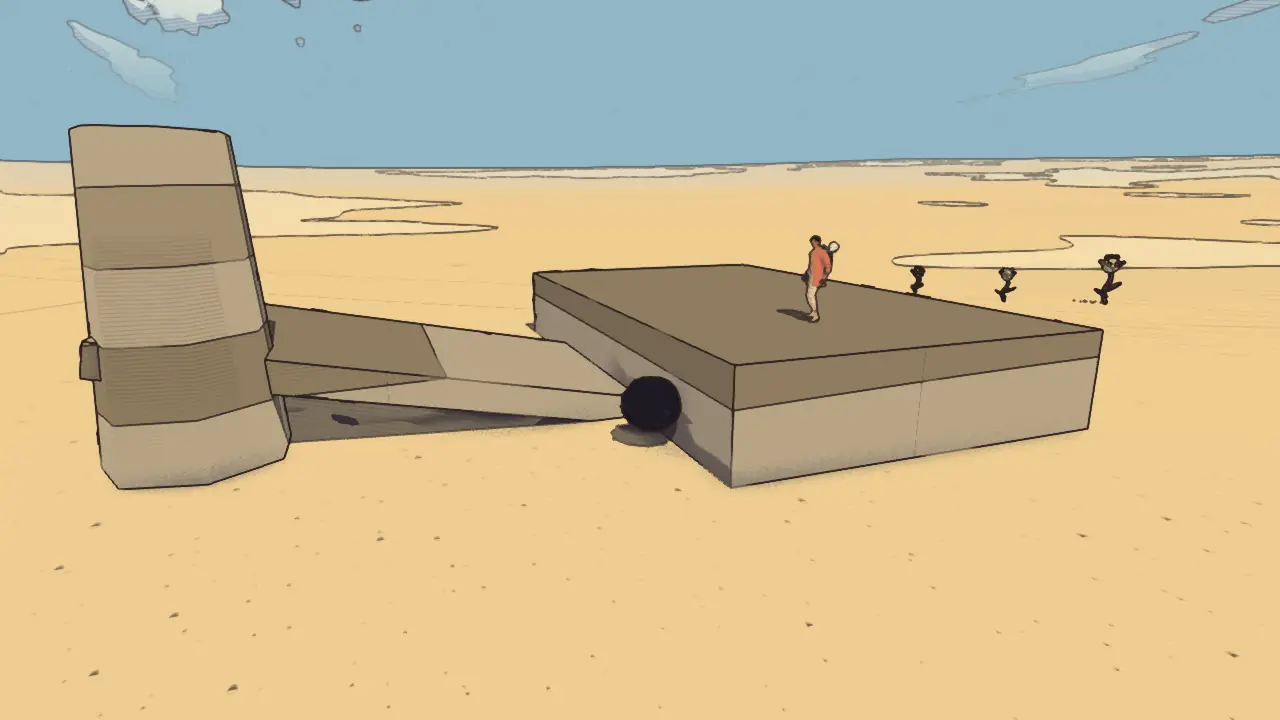
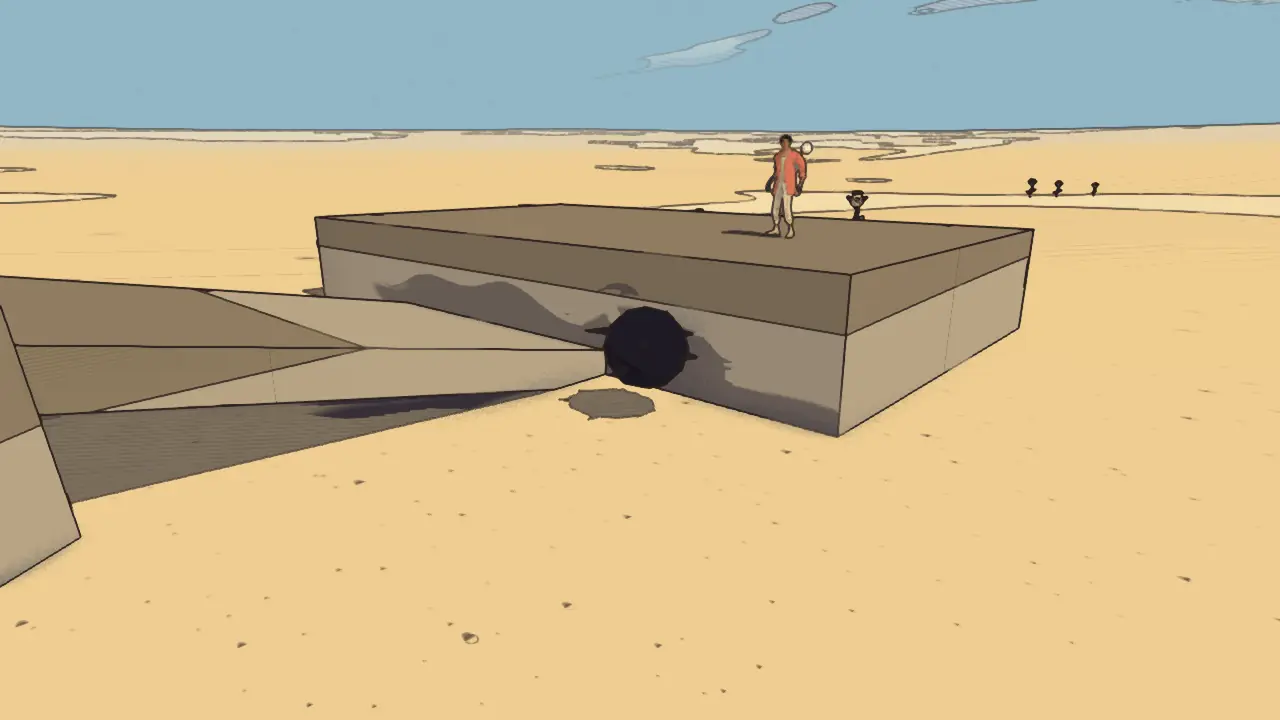
Changelog pictures for foes over height: the blot up the Arena's ledge, the temple machine up the dais, a knock-off's daze
Before / after (scripts/changelog-shots.mjs, High, 1280 x 720): the Arena's ledge from its side with a blot
coming from below (6ecedb75 against bcdd52a1), the desert temple's third room with its machine woken and the
traveller up on the dais (the same), and a blot cut off the ledge's edge a second before (6ecedb75 against
f544f600: the brighter stars). The spitter's perch as a see note.

diff --git a/src/changelog-media.js b/src/changelog-media.js
@@ -262,8 +262,8 @@ export const CHANGELOG_MEDIA = {
     ], see: 'In the Arena, stand on the ledge at the far side (the ramp goes up to it) and pick an ink blot from the FOES list: it crouches at the foot of the ledge and leaps up. A machine from the list comes round by the ramp instead.' },
     { match: 'A spitting blot now climbs steps and ramps', see: 'In the Arena, pick a spitting blot from the FOES list and lead it near the ledge at the far side, staying on the sand below: it walks up the ramp and lobs down at you from up there. Walk up the ramp after it.' },
     { match: 'Knock a foe off a ledge', shots: [
-      { name: 'foe-knock-off', caption: 'An ink blot cut off the edge of the Arena’s ledge, a second later: before, it has landed and is already coming on along the foot of the ledge; after, it lies dazed where it fell, pale stars turning over it', commit: 'bcdd52a1',
-        view: { ...ARENA_LEDGE, eye: [10.5, 3.2, -32.5], target: [5, 0.9, -38.6], setup: LEDGE_VIEW(`const f = foes.add('blot', new V(5, 2, -40.4)); f.state = 'chase'; setInterval(() => { f.cool = 99; }, 50); ${sleepJs(300)} foes.hurt(f, 'blade', new V(0, 0, 1), { damage: 1, combo: 2 });`), wait: 1300 } },
+      { name: 'foe-knock-off', caption: 'An ink blot cut off the edge of the Arena’s ledge, a second later: before, it has landed and is already coming on along the foot of the ledge; after, it lies dazed where it fell, pale stars turning over it', commit: 'f544f600', before: '6ecedb75',
+        view: { ...ARENA_LEDGE, eye: [10.5, 3.2, -32.5], target: [5, 0.9, -38.6], setup: LEDGE_VIEW(`const f = foes.add('blot', new V(5, 2, -40.4)); f.state = 'chase'; setInterval(() => { f.cool = 99; }, 50); ${sleepJs(300)} f.pos.set(5, 2, -40.3); foes.hurt(f, 'blade', new V(0, 0, 1), { damage: 1, combo: 2 });`), wait: 1300 } },
     ], see: 'In the Arena, get a blot up on the ledge at the far side and cut it toward the edge (the third swing, the charged cut or the push): it lands dazed below, stars over it.' },
   ],
   '1.3': [
